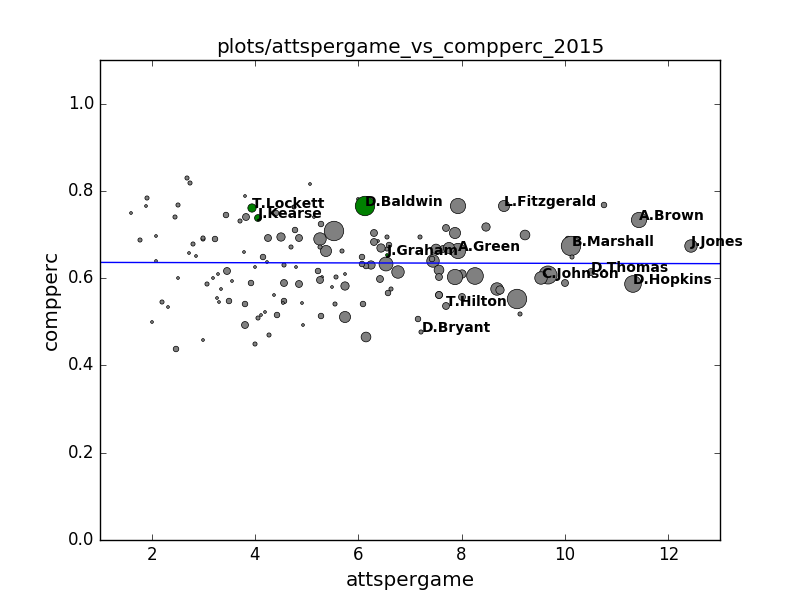
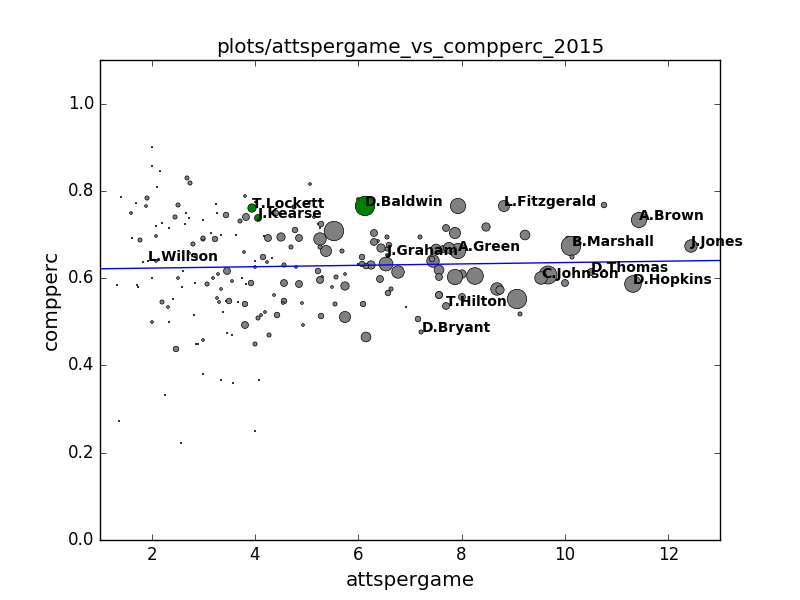
almost completes 4th post. Still missing last section.

Changed region(s): [[0.125, 0.42, 0.625, 0.45], [0.6562, 0.42, 0.9062, 0.45]]

diff --git a/app/templates/projects/20160113_WR.html b/app/templates/projects/20160113_WR.html
@@ -8,11 +8,13 @@
 <h2>Seattle beats Minnesota in the Wild-Card</h2>
 <p>To start this post off, I'd like to name my top three favorite  plays from the Seahawks vs Vikings playoff game last week.
 In no particular order they are:
+</p>
 <ul>
     <li>Blair Walsh whiffing the 27 yard field goal (especially making a couple of 40+ yard attempts earlier)</li>
     <li>Russ Wilson dropping to his knees before connecting with Tyler Lockett</li>
     <li>Doug Baldwin's beyond spectacular one-handed catch</li>
 </ul>
+<p>
 In case you missed that last one, you can watch it
 <a href='http://bleacherreport.com/articles/2606620-seahawks-wr-doug-baldwin-leaps-for-ridiculous-1-handed-catch-vs-vikings'>here</a>
 </p>
@@ -33,15 +35,22 @@ Honestly, I don't even know what a QB rating is, but I know it was much higher i
 I could say weather was a factor (it was below zero degrees fahrenheit for most of the game).
 I could go into how playing away from home effects the Seahawks, but I already did that.
 I could even look into what Tyler Lockett ate before the game and how that effected his performance, but I won't.
-In fact, I won't do anything. The Seahawks had a below average game, for whatever reasons and that's that.
-What I will do is look at how the Seahawk's receiver corp has performed this year, and do some comparisons.
+It could have been several different factors, but that isn't what this post is about.
+</p>
+
+<p>
+In terms of offense, the Seattle Seahawks had a below average game.
+But on average, their offense has done some amazing things this year.
+What this post is about is how Seattle's receiver corp has performed this year,
+and how they compare to other teams (namely Carolina, for next week).
 </p>
 
 
 <h2>Spectacular Completion Percentages</h2>
+<p>
 If you're interested in how I collected and cleaned the data, you can check out the end of this post.
 If you're interested in seeing how awesome Seattle receivers compare in terms of completion percentages, here's my first set of plots:
-
+</p>
 <div class='imgset' id='imgset-compperc'>
     <div class='no-display'>
         <img class="blog-image img-responsive" src='{{ url_for("static", filename="images/20160113_WR/compperc_2012.png") }}' alt="completion percentage">
@@ -69,62 +78,92 @@ First, some details about the plots.
     and the y-axis is the percentage those attempts are completed or completed (compperc).</li>
     <li>Seahawk receivers get special green dots, and everyone else is grey.</li>
     <li>For comparison, I've labelled Seahawk receivers, as well as some top receivers (e.g. Julio Jones).</li>
-    <li>The size of each player's dot is determined by the <emph>total</emph> number of touchdowns they had in the regular season.</li>
+    <li>The size of each player's dot is determined by the total number of touchdowns they had in the regular season.</li>
     <li>There's a first-order best fit line for the data with respect to pass attempts per game and completion percentages. Touchdowns do not effect this line.</li>
 </ul>
 </p>
 
 <p>
-First, let's talk about 2012-2014. Seattle's receivers don't really stand out in any way. In fact, they're very middle-of-the-plot in terms of the xy-plot,
+Let's talk about 2012-2014. Seattle's receivers don't really stand out in any way. In fact, they're very middle-of-the-pack in terms of the xy-axes,
 and less than impressive in terms of point size. So how did Seattle have back-to-back Super Bowl appearances?
 During that three year span, Seattle had the highest rush percentage in the NFL - around 54% each year - which is huge compared to the 43% median.
+That isn't to say that Seattle's pass offense sucked, but rather heavily relied on a strong rushing presence to open up pass plays.
 </p>
 
 <p>
 2015 is quite a different picture. Compared to the top receivers, Seattle's top three receivers (Baldwin, Lockett, and Kearse)
-are in the top five in terms of completion percentages. 
-Compared to previous years, Seattle receivers have way more touchdowns than ever before!
-But what about the number of pass attempts? 
-They've shifted a little to the right, but Seattle still doesn't have anyone like Antonio Brown, Larry Fitzgerald, or Calvin Johnson, in terms of attempts.
-Fortunately for Seattle, attempts don't count for any points. It's touchdowns and yards that matter. 
+are in the top five in terms of completion percentages.
+Compared to previous years, Seattle receivers had way more touchdowns!
+There are two main differences between 2015 and the previous years.
+The first is the absence of Marshawn Lynch.
+With Marshawn out due to injuries, Seattle's ability to pass the ball was tested and in terms of touchdowns, they've done a great job.
+The other difference is the presence of Tyler Lockett. He's like the Percy Harvin they never really had, and isn't made of glass.
+Tyler's speed and intelligence broadens Seattle's offensive playbook which allows for gains in yardage.
+</p>
+
+<h2>It's all about that yardage</h2>
+<div class='imgset' id='imgset-yardage'>
+    <div class='no-display'>
+        <img class="blog-image img-responsive" src='{{ url_for("static", filename="images/20160113_WR/yardage_2012.png") }}' alt="yardage">
+    </div>
+    <div class='no-display'>
+        <img class="blog-image img-responsive" src='{{ url_for("static", filename="images/20160113_WR/yardage_2013.png") }}' alt="yardage">
+    </div>
+    <div class='no-display'>
+        <img class="blog-image img-responsive" src='{{ url_for("static", filename="images/20160113_WR/yardage_2014.png") }}' alt="yardage">
+    </div>
+    <div>
+        <img class="blog-image img-responsive" src='{{ url_for("static", filename="images/20160113_WR/yardage_2015.png") }}' alt="yardage">
+    </div>
+</div> <!-- end imgset-compperc -->
+
+<div class='btn-scroller'>
+    <a class='btn btn-primary btn-med scroller-left' href="javascript:scroll_images('#imgset-yardage', -1);">&larr;back in time</a>
+    <a class='btn btn-primary btn-med scroller-right' href="javascript:scroll_images('#imgset-yardage', 1);">into the future&rarr;</a>
+</div>
+
+<p>
+This plot set is very similar to the previous one. The only difference is the y-axis is the average yards per attempt for each receiver.
+Usually, I see the statistic for yards per completion, but that seems kind of useless. 
+I don't care how many yards someone gets if they catch the ball. I want to know what the expected gain is for each attempt, whether or not they catch the ball.
+That way, if they suck at catching the ball, that number goes down.
 </p>
 
 <p>
-What's interesting about these plots?
-First off, it seems like completion percentage is not really effected by the number of attempts - just look how flat the best fit line is.
-I thought I'd see some effect like "more passes go to people with higher completion percentages",
-or "the fewer passes someone gets, the more accurate they are because they're only a target when they've got a good chance of catching the ball",
-but that really isn't apparent.
-And how about the Seahawks? Their completion percentages are phenomenal!
-Compared to the top recievers labelled in the plots, Seattle's top three receivers (Baldwin, Lockett, and Kearse) are in the top five in terms of completion percentages.
-Unfortunately, they are also in the bottom three in terms of number of attempts per game.
-
-<h3>Seattle's Rush Offense</h3>
-<p>
-Why does Seattle have such few attempts per game? It's because they run the ball so often.
-In the four year span that I've plotted, Seattle has had the highest percentage of rush plays every year except for 2015,
-and that's because they lost both their star running back and second string running backs to injurys.
-There's a good reason they run the ball so often - they have one of the best QB/RB combinations, in terms of rushing.
+The story is similar to before. 2015 is a phenomal year for Seattle in terms of yards per attempt. 
+Of note is the fact that every receiver is above the best fit line,
+and compared to the top receivers, Seattle is once again near the top of that list.
+The previous years, on the other hand, don't look so impressive.
+The only thing to note is in 2012 when Baldwin had a comparable yards per attempt to 2015.
 </p>
 
+<h2>Throw the ball!</h2>
 <p>
-So what happens when Seattle loses their star running back and their ability to run the ball effectively?
-Honestly, I was really worried when Marshawn Lynch got injured, but when I saw Rawls run the ball I got my confidence back.
-Then Rawls got injured and I thought all hope was lost, but oh was I wrong.
-When Seattle's passing ability was tested, they came up with huge numbers in terms of receiving yards, touchdowns, completion percentages, and anything else you can think of.
+What about the pitifully low number of pass attempts?
+Seattle has an extremely low number of pass attempts, no matter what year it is.
+That seems to be the only thing that I've plotted that doesn't change.
+It would be naive to believe that if Seattle starts to pass more often, then they'll get more total yards because they have such high catch percentages.
+In fact, it is quite likely that they have high catch percentage and yards per attempt because they pick their passes so well (thanks Russel).
+So what does this mean? It means they don't have to throw the ball as often as other teams to get similar results.
+Sure, they don't have as many touchdowns, but they have the best defense (with respect to points allowed) in the league to account for that.
+It means when Marshawn Lynch gets back on the field they'll have very dangerous and diverse offensive options.
+It means watch out Carolina.
 </p>
-
-<p>
-How does this relate to my plots? If you look back at previous years, Seattle's receivers don't look too special.
-They blend in with the other small points in the middle of the pack, even though we've been in back-to-back Super Bowls.
-
-</p>
-
-<h2>That other stat I plotted</h2>
-
 
 <h2>Playoff Picture</h2>
+<p>
+The other plots have a lot of data points, so in this section I've provided the same plots restricted to playoff teams.
+There's only one new feature: Carolina receivers get blue dots.
+</p>
 
+<div class='imgset' id='imgset-yardage'>
+    <div>
+        <img class="blog-image img-responsive" src='{{ url_for("static", filename="images/20160113_WR/compperc_2015_playoffs.png") }}' alt="compperc">
+    </div>
+    <div>
+        <img class="blog-image img-responsive" src='{{ url_for("static", filename="images/20160113_WR/yardage_2015_playoffs.png") }}' alt="yardage">
+    </div>
+</div>
 
 <h2>Data Stuff</h2>
 {% endblock %}
